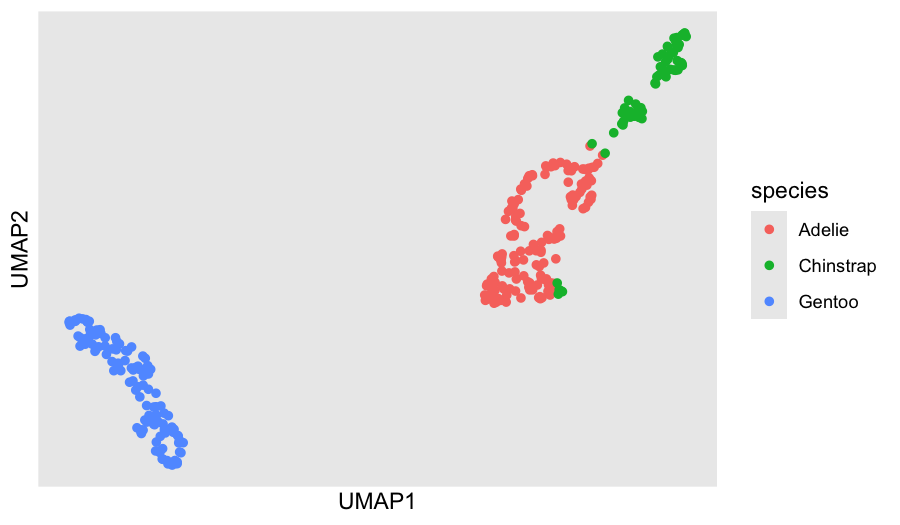
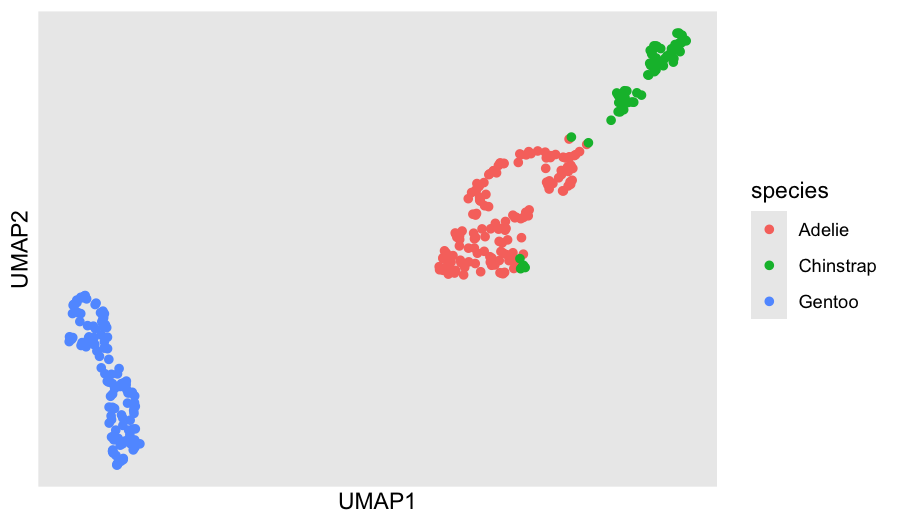
Tidy three plots in the vignette and README
* The density example embeds the penguins without missing values, so
  no warnings are printed.
* The features example drops the penguins of unknown sex, which have no
  shape and left an empty "NA" entry in the legend.
* The labelled mtcars plot spreads the points (min_dist = 1), puts the
  names beside them and is taller, so the names no longer overlap each
  other or the points.

Changed region(s): [[0.4667, 0.0305, 0.7778, 0.6095], [0.0622, 0.5486, 0.2178, 0.9143]]

diff --git a/README.md b/README.md
@@ -58,11 +58,11 @@ pak::pak("jeroenjanssens/ggumap")
 cars <- transform(mtcars, model = rownames(mtcars))
 
 ggplot(cars, aes(label = model, colour = factor(cyl))) +
-  geom_umap(scale = TRUE, n_neighbors = 5) +
-  stat_umap(geom = "text", scale = TRUE, n_neighbors = 5,
-            size = 2.5, vjust = -0.8, show.legend = FALSE,
+  geom_umap(scale = TRUE, n_neighbors = 5, min_dist = 1) +
+  stat_umap(geom = "text", scale = TRUE, n_neighbors = 5, min_dist = 1,
+            size = 2.5, hjust = -0.12, show.legend = FALSE,
             check_overlap = TRUE) +
-  scale_x_continuous(expand = expansion(mult = 0.15)) +
+  scale_x_continuous(expand = expansion(mult = c(0.05, 0.25))) +
   labs(colour = "cylinders") +
   theme_umap()
 ```
@@ -75,13 +75,13 @@ plot:
 ``` r
 penguins <- na.omit(palmerpenguins::penguins)
 umap_embed(penguins, bill_length_mm:body_mass_g, scale = TRUE, seed = 1) |> head()
-#>       UMAP1    UMAP2  knn_dist
-#> 1  8.797668 2.989627 0.4842742
-#> 2  7.851410 3.140680 0.4916678
-#> 3  7.228579 2.900652 0.5714622
-#> 4  8.996132 1.971760 0.5629448
-#> 5 10.241680 1.819770 0.6880632
-#> 6  8.133076 2.987497 0.4997849
+#>      UMAP1    UMAP2  knn_dist
+#> 1 8.951698 7.911100 0.4842742
+#> 2 8.656451 8.798175 0.4916678
+#> 3 8.313984 9.207904 0.5714622
+#> 4 8.232854 7.165707 0.5629448
+#> 5 8.972029 5.958261 0.6880632
+#> 6 8.726288 8.545345 0.4997849
 ```
 
 See `vignette("ggumap")` for more.
